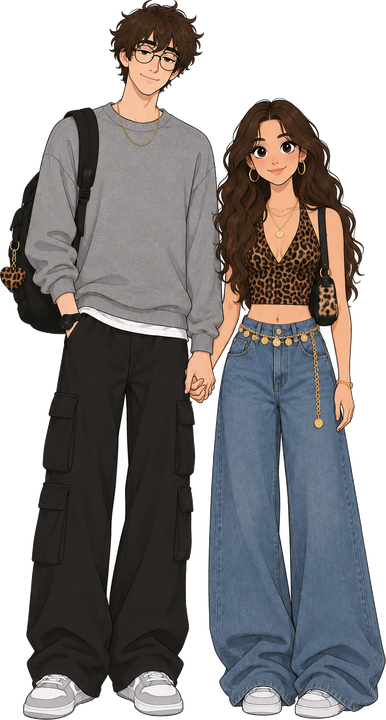
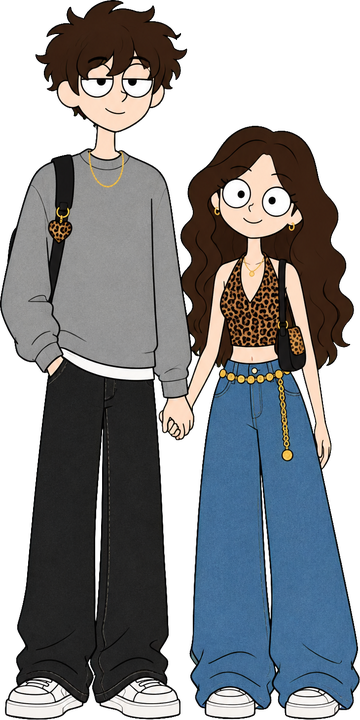
Karakterler: eski çizgi film tarzı, açık ten, gözlüksüz, siyah baggy kot, temiz kenarlar
Claude-Session: https://claude.ai/code/session_0186M41423V9FdX7pZBQzYhW

diff --git a/sw.js b/sw.js
@@ -1,10 +1,10 @@
-// Çizgi Kanal: uygulama kabuğunu önbelleğe alır; internet yoksa da açılır
+// Ã‡izgi Kanal: uygulama kabuÄŸunu Ã¶nbelleÄŸe alÄ±r; internet yoksa da aÃ§Ä±lÄ±r
 const C='cizgi-kanal-v5';
 const SHELL=['./','index.html','manifest.webmanifest','icon.png','icon-192.png','apple-touch-icon.png','oyun.html','img/cift.png','img/metehan.png','img/ilayda.png'];
 self.addEventListener('install',e=>{ e.waitUntil(caches.open(C).then(c=>c.addAll(SHELL)).then(()=>self.skipWaiting())); });
 self.addEventListener('activate',e=>{ e.waitUntil(caches.keys().then(ks=>Promise.all(ks.filter(k=>k!==C).map(k=>caches.delete(k)))).then(()=>self.clients.claim())); });
 self.addEventListener('fetch',e=>{
   const u=new URL(e.request.url);
-  if(e.request.method!=='GET'||u.origin!==location.origin) return; // YouTube ve arşiv akışlarına dokunma
+  if(e.request.method!=='GET'||u.origin!==location.origin) return; // YouTube ve arÅŸiv akÄ±ÅŸlarÄ±na dokunma
   e.respondWith(fetch(e.request,{cache:'no-cache'}).then(r=>{ const cp=r.clone(); caches.open(C).then(c=>c.put(e.request,cp)); return r; }).catch(()=>caches.match(e.request).then(r=>r||caches.match('index.html'))));
 });
